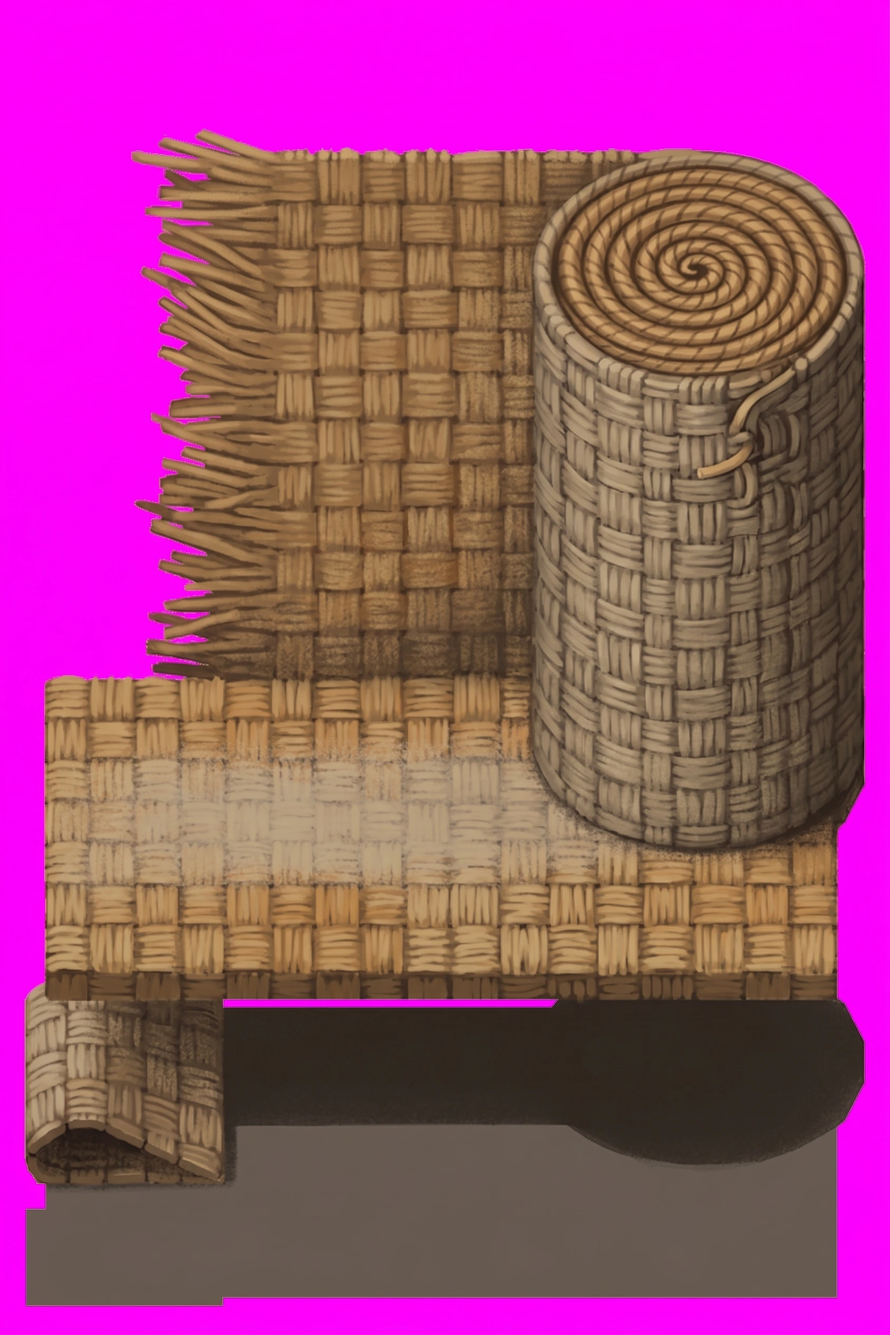
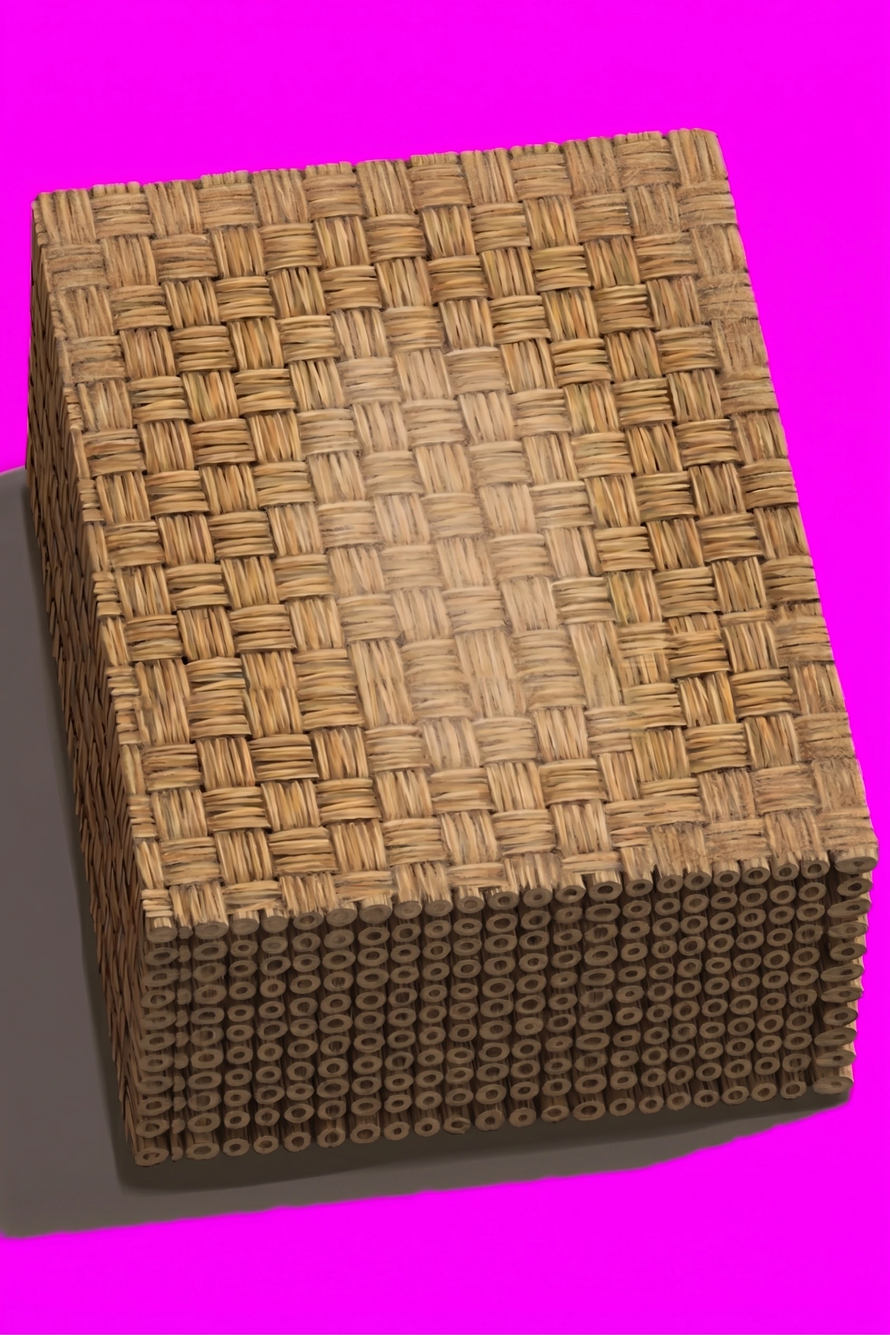
feat: the mat is a flat rug, since geometry cannot make one read
Three shaped designs were rendered and rejected. The useful one: a fold at a
prop's NEAR edge is invisible — lifting the front raises its z, but the tip
swings back toward the hinge and under z + 0.7y the terms nearly cancel, 0.016
of drawn height for 0.13 of real lift. Only the far edge gains from both.

Claude-Session: https://claude.ai/code/session_01TNgAGcPkVV74oznnqfXVVF

diff --git a/scripts/renderProp.py b/scripts/renderProp.py
@@ -317,35 +317,28 @@ def prim_pillar():
 
 
 def prim_mat():
-    """A reed mat rolled up and stood on its end, part unrolled at its foot, one corner curled.
+    """A reed mat lying flat on the floor — one thin sheet, and nothing else.
 
-    THE WEAKEST PROP IN THE SET, and the reason is structural rather than a bad roll: under this
-    projection a flat thing lying on the floor has no silhouette, which is the same wall
-    tile-art-brief.md hits with floor scatter. Three designs were rendered and measured:
+    THE ONE PROP WHOSE IDENTITY IS PAINT, not geometry, and that is a finding rather than a shortcut.
+    Under this projection a flat thing on the floor has no silhouette, which is the wall
+    tile-art-brief.md hits with floor scatter. Three shaped designs were rendered and measured before
+    this one:
 
-    1. Flat sheet, thin roll behind. All top face — two pale bands of one value with nothing between
+    1. Flat sheet with a roll behind it. All top face — two pale bands of one value, nothing between
        them to say mat rather than slab.
-    2. Roll stood on its end (this one). The roll gains a front elevation, but a cylinder upright is
-       drum-shaped whatever is painted on it, and at 50 units it reads close to the crate's reed
-       baskets. The marks that would separate them — a spiral on the roll's end, the weave on the
-       sheet — are finer than a tenth of the object and mostly gone.
-    3. Flat sheet with its edges FOLDED. Worth knowing why this fails, because the rule is general: a
-       fold at the NEAR edge is invisible. Lifting the front edge raises its z, but as the flap swings
-       up its tip travels back toward the hinge, and under z + 0.7y the terms nearly cancel — measured
-       at 0.016 of the drawn height for 0.13 of real lift. Only the FAR edge gains from both, and a
-       far-edge fold draws as one more pale band above the sheet, separated by its own underside.
+    2. The roll stood on its end. That gains a front elevation, but a cylinder upright is drum-shaped
+       whatever is painted on it, and at 50 units it read as one of the crate's reed baskets.
+    3. The sheet with its edges FOLDED. A fold at the NEAR edge is invisible, and the rule is general:
+       lifting the front edge raises its z, but as the flap swings up its tip travels back toward the
+       hinge, and under z + 0.7y the two terms nearly cancel — 0.016 of drawn height for 0.13 of real
+       lift. Relief at the FRONT of any prop is free to model and impossible to see. Only the far edge
+       gains from both, and a far-edge fold draws as one more pale band above the sheet.
 
-    So relief at the FRONT of any prop is free to model and impossible to see, and this prop's identity
-    has to come from the weave. Design 2 is what is imported, because it at least has a shape.
-
-    The tongue runs UNDER the roll and OVERLAPS it in x. Set beside it, touching at one x, the roll
-    towers over a 0.03 sheet and the two share only their bottom pixel: it reads as a drum standing next
-    to a mat, with a shadow ellipse of its own. Nor may the roll lean — tipped 6 degrees its base lifts
-    off the floor on one side, which is the floating the shear punishes hardest."""
-    roll_h, r = 0.50, 0.17
-    box(0.80, 0.42, 0.03, x=-0.14, y=-0.08, z=0.015)
-    cyl(r, roll_h, x=0.12, y=0.05, z=roll_h / 2, verts=18)
-    tilt(box(0.20, 0.16, 0.03, x=-0.46, y=-0.26, z=0.05), 40, "X")
+    So the sheet is left alone and the weave carries it: a coarse checker of eight squares across is
+    about 6 units apiece at slot size, which survives where a spiral or a frayed straw does not. What
+    geometry still owes the prop is a shape that is not a FLOOR TILE, and --spin is what buys that — a
+    rug lying askew of the grid cannot be read as part of the paving, and it costs one flag."""
+    box(0.95, 0.72, 0.055, z=0.0275)
     return join_all()
 
 

diff --git a/docs/instructions/prop-pipeline.md b/docs/instructions/prop-pipeline.md
@@ -174,6 +174,10 @@ target taken from the props already painted by hand, not from taste:
 | gap against the floor it stands on       | 10 or more, either direction | `--brightness`, or a re-roll if it cannot reach without clipping |
 | warmth against the slab                  | +22 to +25 for the merchant  | `--saturation`, 1.3 lands +24                                    |
 
+**`--saturation` runs BOTH ways, and both ends have been hit in one rank.** The mat came back photoreal
+straw at +51 and needed 0.6; the brazier came back near-achromatic at +1 and needed 2.2. A repaint being
+cooler than the painted set is the common case, not the only one — measure before reaching for 1.3.
+
 **`--saturation` scales the chroma that is THERE, so it cannot warm a prop the generator painted grey.**
 The shelf came back at +10 and needed 1.45; the crate came back at +14 and needed none at all once its
 invented floor was masked away. The brazier came back at **+1** and 1.4 moved it to +5 — it took 2.2 to
